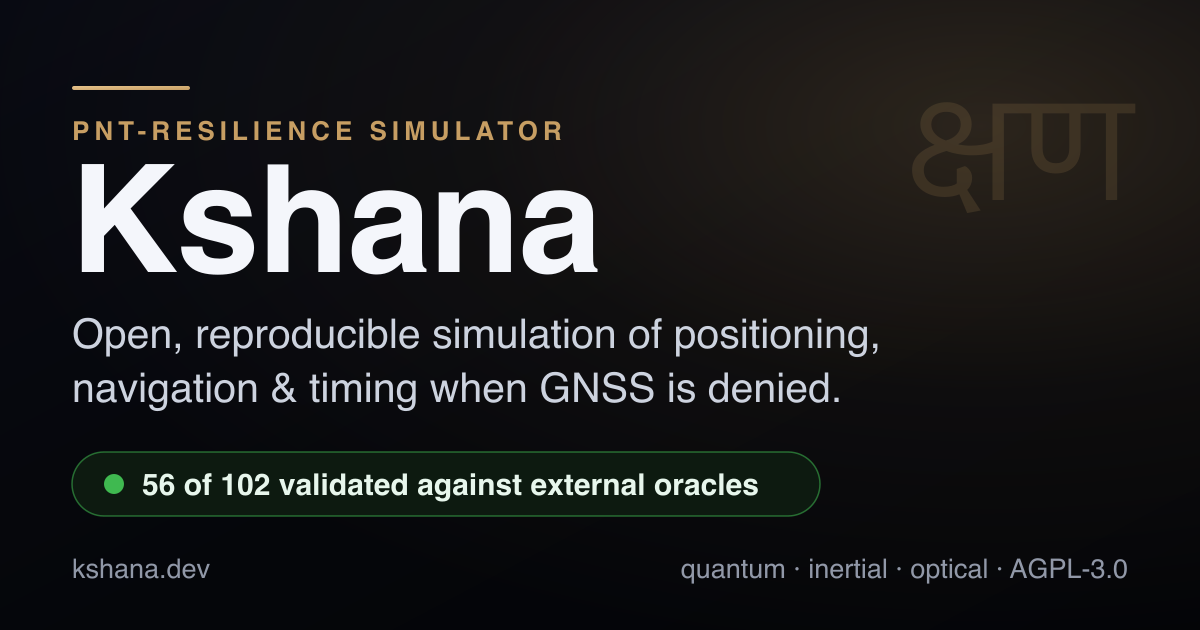
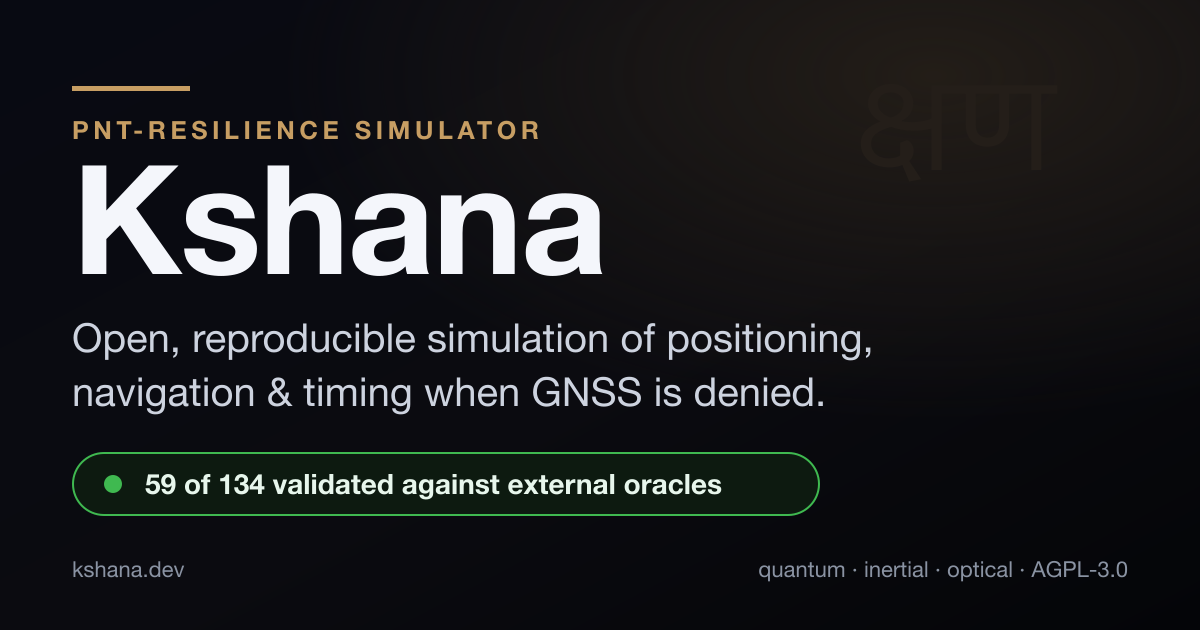
fix(web): the social card told every link preview "56 of 102" for months
web/og-card.png is the image LinkedIn, Slack, iMessage and a search thumbnail
render for kshana.dev. It printed

    56 of 102 validated against external oracles

while the evidence ledger held 59 of 134. The total was wrong by thirty-two
rows, on the single most-shared artefact the project has.

Nothing could have caught it. The card was committed once as a bare PNG with no
source and never regenerated, and a count inside a rendered image is invisible
to every doc-sync test -- there was no text anywhere to compare against the
matrix. web_validation_counts_doc_sync.rs opens by saying "a gate only grades
the surfaces it lists, and a surface nobody listed is a surface nobody checked",
and then lists the social-card DESCRIPTION while leaving the social CARD out.
102 is also exactly the stale total the website's ldg-total span carried, so
both surfaces froze at the same moment and only one of them was ever noticed.

The card now has a source and a generator:

  - web/og-card.svg carries the text, rebuilt to the original's measured
    geometry and sampled palette (amber #C79E63, pill #0D1A10 on #3FB950, title
    #F4F6FB, watermark #241E19; rule at x72 w118, title baseline y274, pill
    746x62 at y453) so the card people see is the card they saw, with the number
    corrected rather than the design replaced;
  - tools/gen_og_card.py takes the counts from web/data/verification-matrix.json
    -- generated from src/verification.rs -- rewrites the SVG's sentence,
[…]

diff --git a/tools/gen_og_card.py b/tools/gen_og_card.py
@@ -1,0 +1,103 @@
+#!/usr/bin/env python3
+"""Regenerate web/og-card.png — the social/link-preview card — from the evidence ledger.
+
+WHY THIS EXISTS
+    The card is the image every link preview renders: LinkedIn, Slack, iMessage, Twitter.
+    It was committed once as a bare PNG with no source and never regenerated, and it spent
+    months telling every reader "56 of 102 validated against external oracles" while the
+    ledger held 59 of 134 — a total wrong by thirty-two rows, on the most-shared surface
+    the project has. Nothing could have caught it: a count inside a rendered image is
+    invisible to every doc-sync test, and there was no source to check it against.
+
+    Now the count comes from web/data/verification-matrix.json (itself generated from
+    src/verification.rs), the SVG that carries it is committed and text-searchable, and
+    tests/web_validation_counts_doc_sync.rs pins that text to the ledger and binds the PNG
+    to the SVG it was rendered from.
+
+USAGE
+    python3 tools/gen_og_card.py            # rewrite the count, re-render, update the record
+    python3 tools/gen_og_card.py --check    # report drift, change nothing (exit 1 if stale)
+
+Requires rsvg-convert (brew install librsvg).
+"""
+
+import argparse
+import hashlib
+import json
+import pathlib
+import re
+import subprocess
+import sys
+
+ROOT = pathlib.Path(__file__).resolve().parent.parent
+MATRIX = ROOT / "web/data/verification-matrix.json"
+SVG = ROOT / "web/og-card.svg"
+PNG = ROOT / "web/og-card.png"
+RECORD = ROOT / "web/og-card.rendered-from.json"
+
+# The one sentence on the card that carries numbers. Kept as a pattern so the generator
+# rewrites it rather than rebuilding the card, and so the test can assert the same shape.
+COUNT_RE = re.compile(r"\d+ of \d+ validated against external oracles")
+
+
+def counts():
+    s = json.loads(MATRIX.read_text())["summary"]
+    return s["validated"], s["total"]
+
+
+def main():
+    ap = argparse.ArgumentParser()
+    ap.add_argument("--check", action="store_true", help="report drift without writing")
+    args = ap.parse_args()
+
+    validated, total = counts()
+    want = f"{validated} of {total} validated against external oracles"
+    svg = SVG.read_text()
+
+    found = COUNT_RE.search(svg)
+    if not found:
+        sys.exit(f"{SVG}: no '<n> of <n> validated against external oracles' string to update")
+
+    if args.check:
+        stale = []
+        if found.group(0) != want:
+            stale.append(f"  {SVG.name}: says {found.group(0)!r}, ledger says {want!r}")
+        if RECORD.exists():
+            rec = json.loads(RECORD.read_text())
+            actual = hashlib.sha256(SVG.read_bytes()).hexdigest()
+            if rec.get("svg_sha256") != actual:
+                stale.append(f"  {PNG.name}: rendered from an older {SVG.name}")
+        else:
+            stale.append(f"  {RECORD.name}: missing, so nothing binds the PNG to its SVG")
+        if stale:
+            print("og-card is stale:\n" + "\n".join(stale))
+            return 1
+        print(f"og-card is current: {want}")
+        return 0
+
+    if found.group(0) != want:
+        svg = COUNT_RE.sub(want, svg, count=1)
+        SVG.write_text(svg)
+        print(f"  {SVG.name}: count -> {want}")
+    else:
+        print(f"  {SVG.name}: count already {want}")
+
+    subprocess.run(["rsvg-convert", "-w", "1200", "-h", "630", str(SVG), "-o", str(PNG)],
+                   check=True)
+    print(f"  {PNG.name}: re-rendered at 1200x630")
+
+    RECORD.write_text(json.dumps({
+        "note": ("Binds web/og-card.png to the exact web/og-card.svg bytes it was rendered "
+                 "from. The card states a count that no test can read out of a PNG, so the "
+                 "SVG's text is pinned to the evidence ledger and this record catches a PNG "
+                 "left behind by an SVG edit. Regenerate both with tools/gen_og_card.py."),
+        "png": PNG.name,
+        "svg": SVG.name,
+        "svg_sha256": hashlib.sha256(SVG.read_bytes()).hexdigest(),
+    }, indent=2) + "\n")
+    print(f"  {RECORD.name}: updated")
+    return 0
+
+
+if __name__ == "__main__":
+    sys.exit(main())

diff --git a/tests/web_validation_counts_doc_sync.rs b/tests/web_validation_counts_doc_sync.rs
@@ -71,3 +71,67 @@ fn website_validation_counts_match_the_matrix() {
         );
     }
 }
+
+/// The social card itself — the image, not the text beside it.
+///
+/// The header of this file says "a gate only grades the surfaces it lists, and a surface
+/// nobody listed is a surface nobody checked", and then lists the social-card
+/// *description* while leaving the social *card* out. `web/og-card.png` is the image every
+/// link preview renders — LinkedIn, Slack, iMessage, a search result's thumbnail — and it
+/// had the count printed into it. It was committed once as a bare PNG with no source and
+/// never regenerated, so it read **"56 of 102 validated against external oracles"** while
+/// the ledger held 59 of 134: a total wrong by thirty-two rows, for months, on the
+/// most-shared artefact the project has. Nothing could have caught it. A count inside a
+/// rendered image cannot be read by a test, and there was no source to check against.
+///
+/// So the card now has one. `web/og-card.svg` carries the text, `tools/gen_og_card.py`
+/// takes the numbers from the ledger and re-renders both the SVG's count and the PNG, and
+/// this test does the two things a test can do: assert the SVG's sentence against the
+/// matrix, and bind the PNG to the exact SVG bytes it came from so an SVG corrected
+/// without a re-render is a build failure rather than a picture that disagrees with the
+/// page around it.
+#[test]
+fn the_social_card_image_states_the_matrixs_counts() {
+    use std::path::Path;
+
+    let m = verification_matrix();
+    let s = summarize(&m);
+    let root = Path::new(env!("CARGO_MANIFEST_DIR"));
+
+    let svg_path = root.join("web/og-card.svg");
+    let svg = std::fs::read_to_string(&svg_path).expect("web/og-card.svg");
+    let want = format!(
+        "{} of {} validated against external oracles",
+        s.validated,
+        m.len()
+    );
+    assert!(
+        svg.contains(&want),
+        "web/og-card.svg — the source of the social card every link preview renders — does \
+         not state the matrix's counts. Expected the substring {want:?}. Regenerate with \
+         `python3 tools/gen_og_card.py`, which rewrites the count, re-renders the PNG and \
+         updates the render record together."
+    );
+
+    let record: serde_json::Value = serde_json::from_str(
+        &std::fs::read_to_string(root.join("web/og-card.rendered-from.json"))
+            .expect("web/og-card.rendered-from.json"),
+    )
+    .expect("render record is valid JSON");
+
+    let recorded = record["svg_sha256"].as_str().expect("svg_sha256");
+    let actual = {
+        use sha2::{Digest, Sha256};
+        let mut h = Sha256::new();
+        h.update(std::fs::read(&svg_path).expect("read og-card.svg"));
+        h.finalize()
+            .iter()
+            .map(|b| format!("{b:02x}"))
+            .collect::<String>()
+    };
+    assert_eq!(
+        actual, recorded,
+        "web/og-card.png was rendered from an older web/og-card.svg, so the card people see \
+         is not the card in the repository. Re-render with `python3 tools/gen_og_card.py`."
+    );
+}
